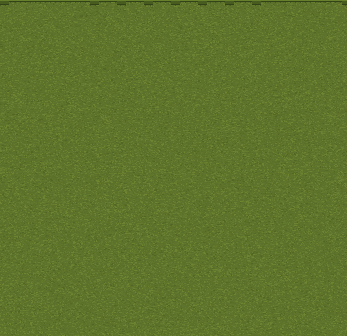
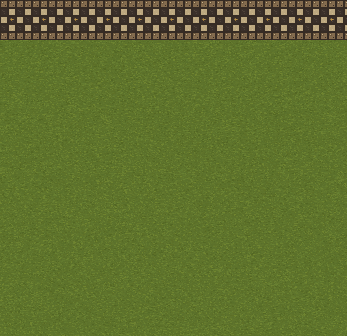
Lay a warm mosaic sidewalk along the top of the meadow.

Changed region(s): [[0.0, 0.0, 1.0, 0.119]]

diff --git a/src/game/assets.ts b/src/game/assets.ts
@@ -1,5 +1,5 @@
 /** Bump this when the pictures change so phones and computers drop the old files. */
-export const ART = "20260928v";
+export const ART = "20260928w";
 
 function art(path: string): string {
   return `${path}?v=${ART}`;
